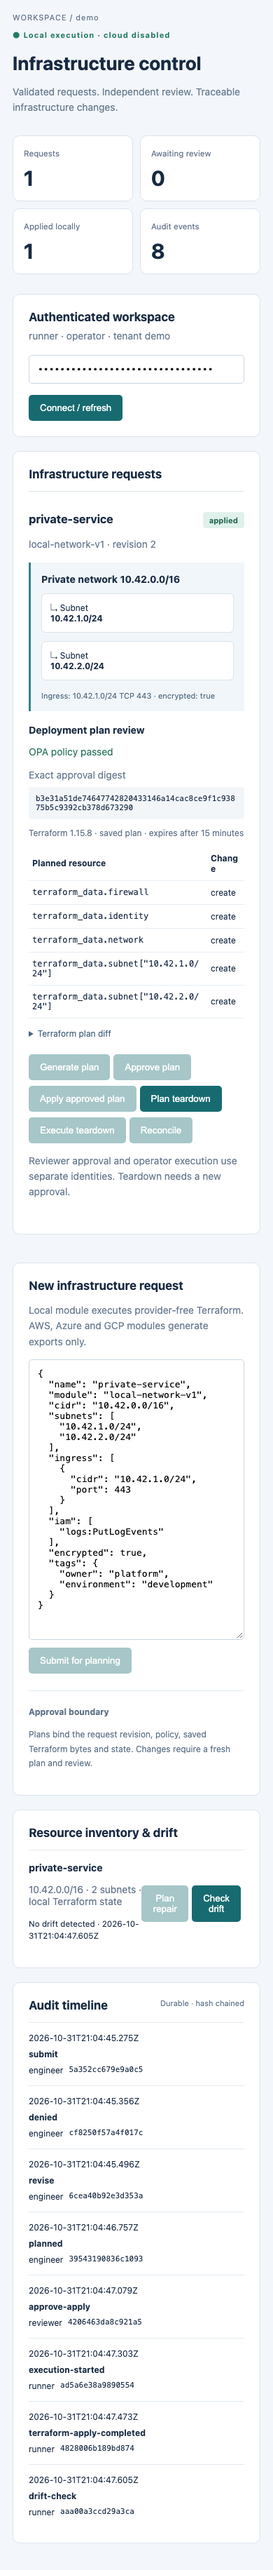
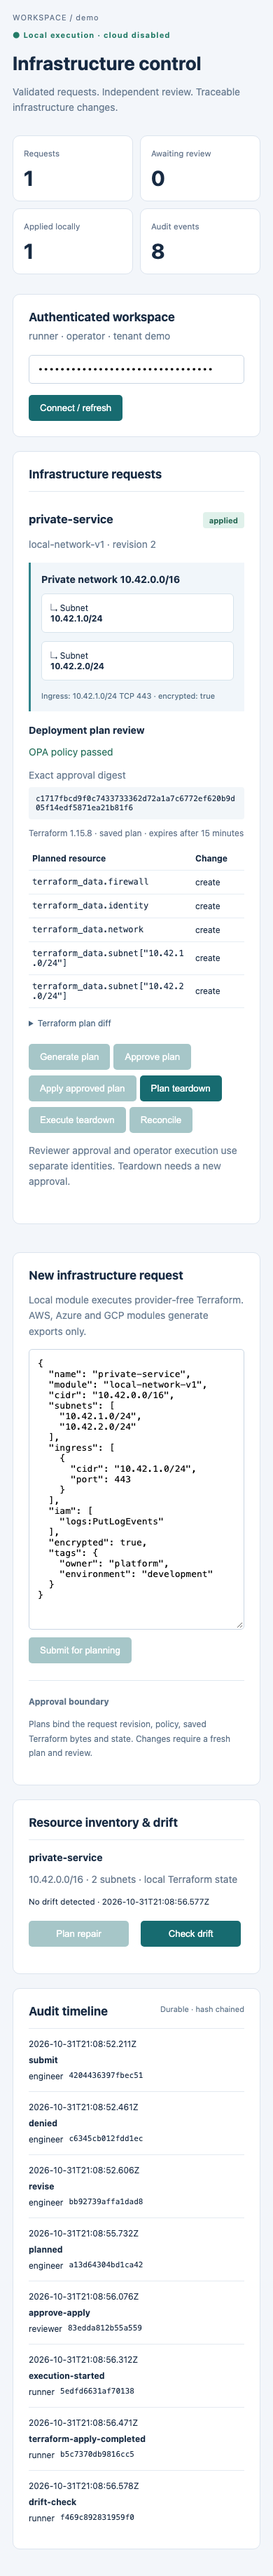
Refine responsive inventory layout and bounded browser assertions

diff --git a/web/style.css b/web/style.css
@@ -1,2 +1,3 @@
 *{box-sizing:border-box}body{margin:0;background:#f3f6fa;color:#172a42;font:14px system-ui}.shell{display:flex;min-height:100vh}aside{width:245px;background:#10253d;color:#c6d3e1;padding:32px 22px;position:fixed;height:100vh}.brand{font-size:25px;font-weight:750;color:white}aside p{font-size:10px;letter-spacing:2px;margin-top:40px}nav{line-height:3.5}footer{position:absolute;bottom:30px;font-size:12px;line-height:1.8}main{margin-left:245px;padding:30px 40px;width:calc(100% - 245px)}header{display:flex;justify-content:space-between;font-size:11px;letter-spacing:1px;color:#62738a}header b{color:#237b67}h1{font-size:32px;margin-bottom:8px}.muted{color:#687b90;line-height:1.6}.stats{display:grid;grid-template-columns:repeat(4,1fr);gap:18px;margin:28px 0}.stats article,.panel{background:white;border:1px solid #dce4ee;border-radius:10px;padding:22px}.stats strong{display:block;font-size:30px;margin-top:10px}.stats small{color:#62738a}.panel{margin-bottom:20px}h2{font-size:17px;margin-top:0}.grid{display:grid;grid-template-columns:1.4fr 1fr;gap:20px}input,textarea{border:1px solid #cad6e3;border-radius:5px;padding:12px;font:13px monospace}input{width:65%;margin-right:10px}textarea{width:100%;height:400px;resize:vertical}button{border:0;background:#176b70;color:white;padding:11px 16px;border-radius:5px;cursor:pointer;margin:8px 5px 0 0}.request{border-top:1px solid #e1e8ef;padding:12px 0}.badge{float:right;background:#e0f1eb;color:#246652;padding:5px 9px;font-size:11px;border-radius:4px}.topology{background:#f1f6fa;padding:15px;border-left:3px solid #31858c}.topology span{display:block;padding:8px 12px}code{font-size:11px;overflow-wrap:anywhere}pre{max-height:200px;overflow:auto;background:#f6f8fb;padding:10px}.event{display:flex;gap:25px;border-top:1px solid #e4eaf1;padding:14px 0;font-size:12px}@media(max-width:900px){aside{display:none}main{margin:0;width:100%;padding:20px}.grid{grid-template-columns:1fr}.stats{grid-template-columns:1fr 1fr}.event{flex-wrap:wrap}}
 nav a{display:block;color:inherit;text-decoration:none;line-height:3.4}nav a:hover{color:#fff}button:disabled{opacity:.38;cursor:not-allowed}.auth{display:flex;align-items:center;gap:16px}.auth>div{flex:1}.auth h2{margin-bottom:6px}.auth p{margin:0}.auth input{width:280px;margin:0}.auth button{margin:0}.digest{display:block;background:#f2f6f9;padding:10px;margin-top:5px;border-radius:4px}.plan-meta{color:#62738a;font-size:12px;margin:12px 0}table{width:100%;border-collapse:collapse;font-size:12px}td,th{padding:9px 5px;border-bottom:1px solid #e6edf4;text-align:left;overflow-wrap:anywhere}td:first-child{font-family:monospace}h4{margin-bottom:8px}.passed{color:#226d58}.finding,.error{background:#fff1ec;color:#a1422b;padding:12px;border-radius:5px}.denied{background:#fff0e8;color:#a14e2b}.secondary{background:#e8eef4;color:#29475f}.segments{display:flex;gap:12px;margin:12px 0}.segments span{background:#fff;border:1px solid #d7e4ec;border-radius:6px;padding:12px;flex:1;font-size:12px}.topology small{color:#526c82;font-size:11px}.note{margin-top:24px;border-top:1px solid #e0e8ef;padding-top:20px;color:#5d7288;font-size:12px;line-height:1.7}.editor{align-self:start;position:sticky;top:20px}.inventory{display:flex;justify-content:space-between;align-items:center;border-top:1px solid #e4eaf0;padding:16px 0}.inventory p{color:#65768b}.panel h2 small{float:right;font-size:11px;color:#60758a;font-weight:400}.actions{display:flex;flex-wrap:wrap}details{margin:14px 0}summary{cursor:pointer;color:#47637e;font-size:12px}pre{white-space:pre-wrap;word-break:break-word}.event time{min-width:180px}.event b{min-width:175px}.error:empty{display:none}@media(max-width:1100px){.auth{flex-wrap:wrap}.auth input{width:55%}.grid{grid-template-columns:1fr}.editor{position:static}}@media(max-width:600px){header{flex-direction:column;gap:12px}.auth input{width:100%}main{padding:18px}.segments{flex-direction:column}.event{gap:8px}.event time,.event b{min-width:0;width:100%}.stats{gap:10px}.stats article{padding:15px}h1{font-size:27px}}
+aside{top:0;left:0}@media(max-width:600px){.inventory{flex-wrap:wrap;gap:12px}.inventory>div{width:100%}.inventory button{flex:1}.inventory small{overflow-wrap:anywhere}th:last-child,td:last-child{white-space:nowrap;width:75px}}

diff --git a/playwright.config.ts b/playwright.config.ts
@@ -1,7 +1,8 @@
 import { defineConfig } from "@playwright/test";
 export default defineConfig({
 	testDir: "./test/browser",
-	timeout: 60000,
+	timeout: 120000,
+	expect: { timeout: 30000 },
 	workers: 1,
 	use: {
 		baseURL: "http://127.0.0.1:18082",

diff --git a/docs/operations.md b/docs/operations.md
@@ -36,6 +36,7 @@ Missing OPA, undefined policy output, timeout and malformed output fail closed. 
 - TypeScript 7 required explicit Node/React type selection, now recorded in tsconfig.
 - Azure's provider requires all collection fields in inline NSG rule objects. Schema validation exposed the omission; the generator now supplies them and validates successfully.
 - Replacing a locally copied read-only Terraform binary initially failed. The installer now writes a unique temporary binary and atomically renames it after checksum verification.
+- Browser assertions initially used Playwright's five-second default, which was too short during a loaded local run. They now allow 30 seconds within a bounded two-minute lifecycle test.
 - Docker reassigned the dynamically published host port after restart. The smoke test now discovers the port again before checking persistence.
 
 No paid resource provisioning or cloud apply was attempted. Provider-schema validation is not live integration validation.
